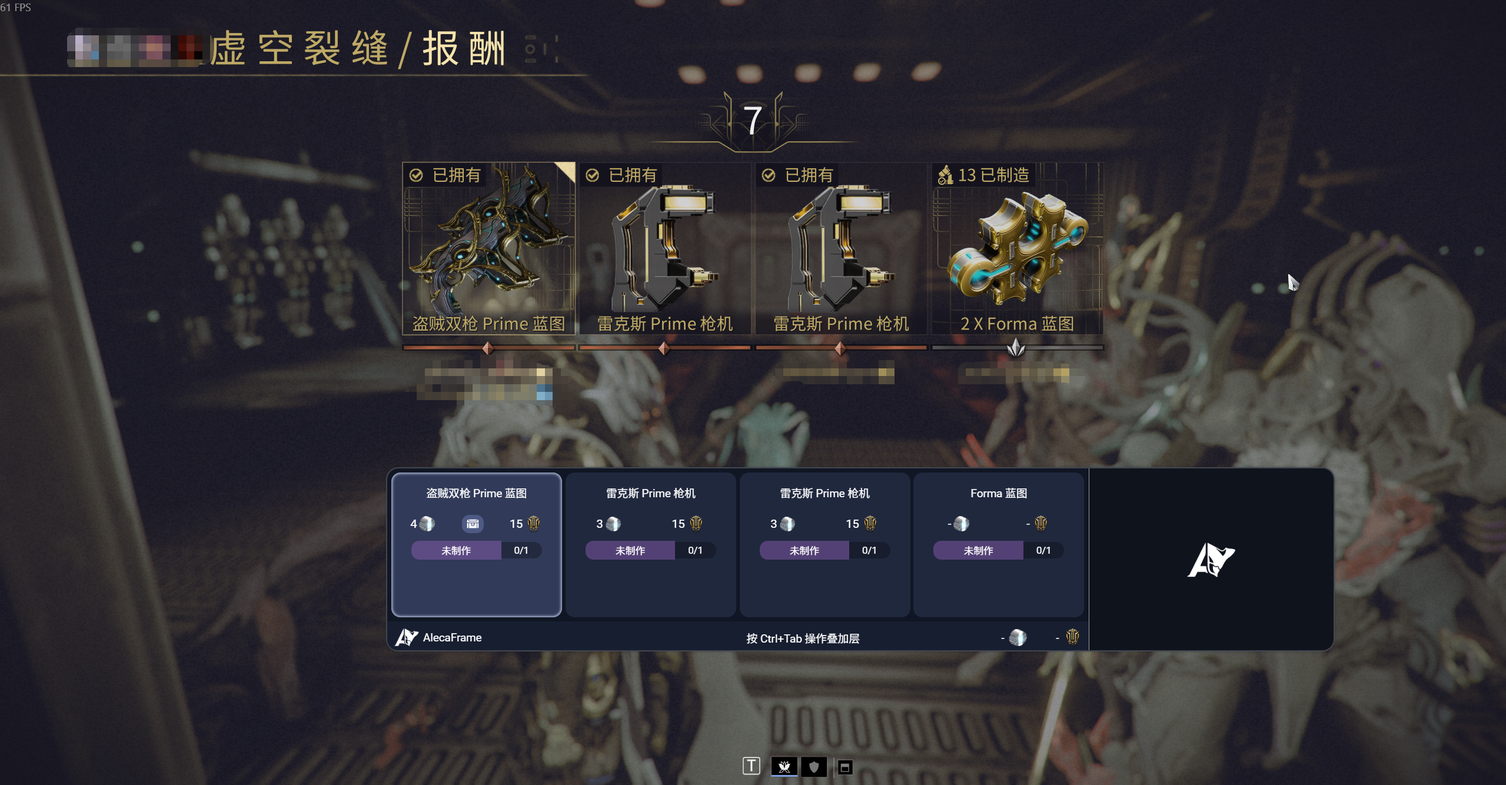
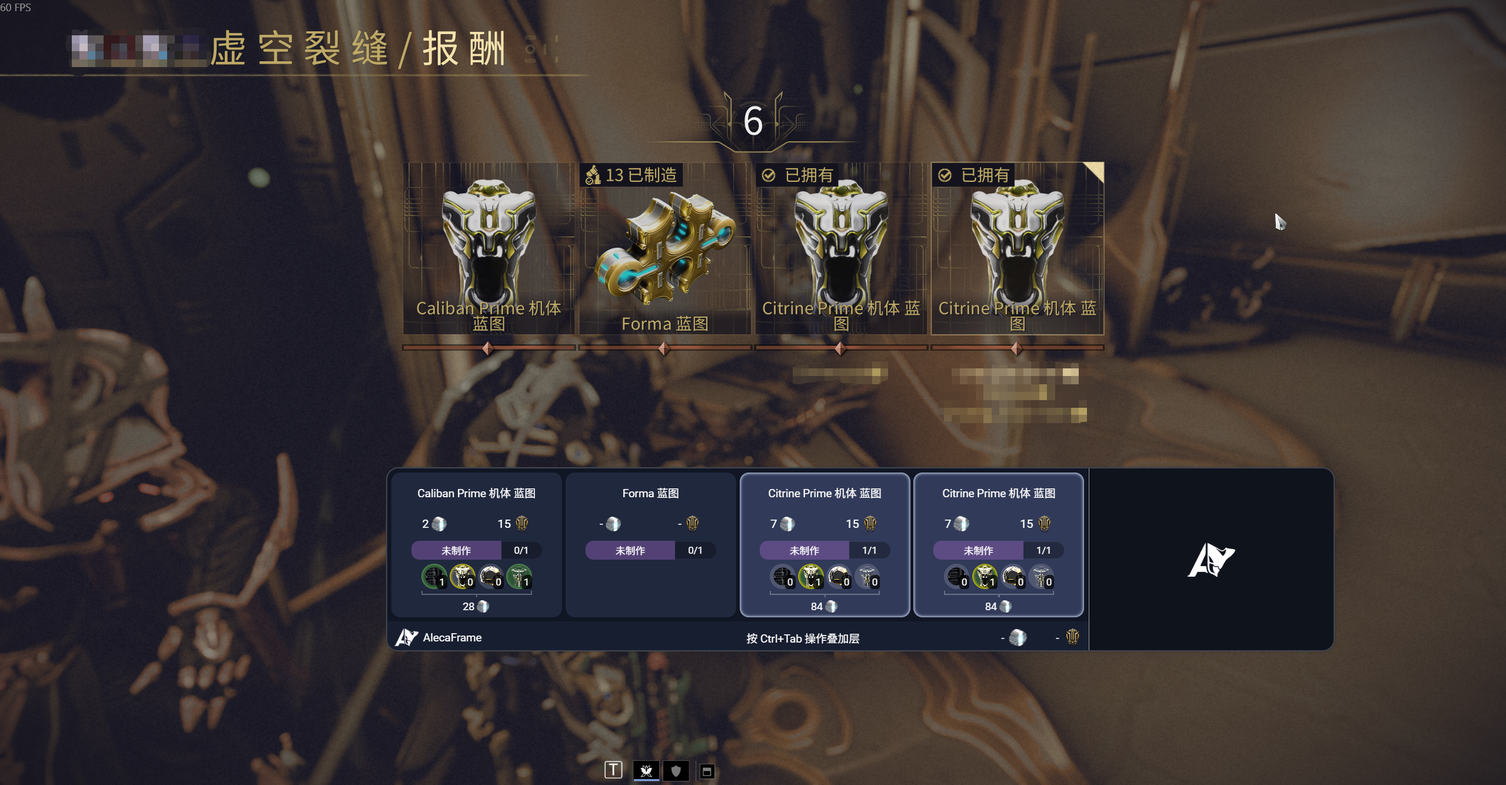
fix:修复在中文游戏下底部部件列表不展示

diff --git a/relic-helper/alecaframe-zh-relic.js b/relic-helper/alecaframe-zh-relic.js
@@ -19,7 +19,7 @@ function GetRelicWindowDataZH(testMode, callback) {
         };
 
         readLocalResult(startTime - 5000)
-            .then(async response => {
+            .then(response => {
                 if (!response.ok || !Array.isArray(response.rewards) || !response.rewards.length) {
                     throw new Error(response.error || "中文遗物截图识别失败");
                 }
@@ -43,8 +43,8 @@ function GetRelicWindowDataZH(testMode, callback) {
                 const refresh = () => {
                     if (window.relicsApp) relicsApp.relics = rewards.slice();
                 };
-                fillPrices(native, response.rewards, rewards).then(refresh);
-                fillInventory(native, rewards).then(refresh);
+                fillPrices(native, response.rewards, rewards, refresh);
+                fillFoundry(native, response.rewards, rewards, refresh);
             })
             .catch(error => {
                 console.error("[AlecaFrame 中文遗物] " + error);
@@ -86,60 +86,88 @@ function readLocalResult(minimumSourceTime) {
     });
 }
 
-function fillPrices(native, source, rewards) {
-    return new Promise(resolve => {
-        const timer = setTimeout(resolve, 3000);
-        try {
-            const names = source.map(item => item.englishName);
-            native.getHugePriceList(JSON.stringify(names), (success, data) => {
-                clearTimeout(timer);
-                try {
-                    if (success) {
-                        const prices = JSON.parse(data);
-                        rewards.forEach((reward, i) => {
-                            const part = prices[i];
-                            if (part && Number(part.post) > 0) reward.platinum = Number(part.post);
-                        });
+function fillPrices(native, source, rewards, refresh) {
+    try {
+        // Older market entries use " Set"; some newer entries use the parent
+        // name directly. Keep both queries in English, independent of display names.
+        const parents = source.map(item =>
+            /\bPrime\b/.test(item.parentName || "") ? item.parentName : "");
+        const names = Array.from(new Set(source.map(item => item.englishName)
+            .concat(parents.filter(Boolean).flatMap(name => [name + " Set", name]))));
+        native.getHugePriceList(JSON.stringify(names), (success, data) => {
+            try {
+                if (!success) return;
+                const prices = JSON.parse(data);
+                const byName = new Map(names.map((name, i) => [name, prices[i]]));
+                const priceFor = name => {
+                    const item = byName.get(name);
+                    return item && Number(item.post) > 0 ? Number(item.post) : -1;
+                };
+                rewards.forEach((reward, i) => {
+                    reward.platinum = priceFor(source[i].englishName);
+                    if (parents[i]) {
+                        const setPrice = priceFor(parents[i] + " Set");
+                        reward.setPlat = setPrice > 0 ? setPrice : priceFor(parents[i]);
                     }
-                } catch (error) { console.warn("[AlecaFrame 中文遗物] 价格读取失败", error); }
-                resolve();
-            });
-        } catch (error) { clearTimeout(timer); resolve(); }
-    });
+                });
+                // A native price request can finish after the old three-second
+                // timeout. Refresh on the actual callback so Vue sees late data.
+                refresh();
+            } catch (error) { console.warn("[AlecaFrame 中文遗物] 价格读取失败", error); }
+        });
+    } catch (error) { console.warn("[AlecaFrame 中文遗物] 价格读取失败", error); }
 }
 
-function fillInventory(native, rewards) {
-    return new Promise(resolve => {
-        const timer = setTimeout(resolve, 3000);
-        const filter = {
-            type: "allParts", search: "", order: "name",
-            orderLargerToSmaller: false, yesnoFilters: "{}", onlyOwned: false
-        };
-        try {
-            native.getFilteredInventory(JSON.stringify(filter), true, (success, data) => {
-                clearTimeout(timer);
-                try {
-                    if (success) {
-                        const items = JSON.parse(data);
-                        const byPart = new Map();
-                        items.forEach(item => {
-                            (item.components || []).forEach(component => {
-                                const key = component.baseData && component.baseData.uniqueName;
-                                if (key) byPart.set(key, { item, component });
-                            });
-                        });
-                        rewards.forEach(reward => {
-                            const match = byPart.get(reward.internalName);
-                            if (!match) return;
-                            reward.countOwned = Number(match.component.baseData.quantityOwned) || 0;
-                            reward.isFav = !!(match.component.baseData.isFav ||
-                                match.component.isFav || match.item.isFav);
-                            reward.isPartOfOwned = !!match.item.owned;
-                        });
+function fillFoundry(native, source, rewards, refresh) {
+    const filter = {
+        type: "all", search: "", order: "name",
+        orderLargerToSmaller: false, yesnoFilters: "{}"
+    };
+    try {
+        // Inventory entries are flat. Foundry entries contain the native recipe,
+        // component pictures, quantities, favourites and ownership/mastery flags.
+        native.getFilteredFoundry(JSON.stringify(filter), true, (success, data) => {
+            try {
+                if (!success) return;
+                const items = JSON.parse(data);
+                const byPart = new Map();
+                items.forEach(item => {
+                    (item.components || []).forEach(component => {
+                        const key = component.uniqueName;
+                        if (!key) return;
+                        if (!byPart.has(key)) byPart.set(key, []);
+                        byPart.get(key).push({ item, component });
+                    });
+                });
+                rewards.forEach((reward, i) => {
+                    const matches = byPart.get(reward.internalName);
+                    if (!matches) return;
+                    // A component can be used by several recipes. Use the parent
+                    // selected by recognition instead of the last indexed recipe.
+                    const parent = source[i];
+                    const match = matches.find(entry => entry.item.internalName === parent.parentInternalName) ||
+                        matches.find(entry => entry.item.name === parent.parentName) || matches[0];
+                    const item = match.item;
+                    const component = match.component;
+                    reward.countOwned = Number(component.quantityOwned) || 0;
+                    reward.totalToOwn = Number(component.neccessaryAmount) || reward.totalToOwn;
+                    reward.isFav = !!(component.isFav || component.isFavOnlyPart || item.isFav);
+                    reward.isPartOfOwned = !!(item.owned || item.mastered || item.pendingInFoundry || component.parentOwned);
+                    // Match the official overlay: only Prime recipes, without
+                    // resource/research ingredients, and highlight this reward.
+                    if (/\bPrime\b/.test(reward.englishName + " " + (parent.parentName || item.name))) {
+                        reward.componentData = item.components
+                            .filter(part => part.uniqueName &&
+                                !part.uniqueName.includes("/MiscItems/") &&
+                                !part.uniqueName.includes("/Research/"))
+                            .map(part => Object.assign({}, part, {
+                                recipeHighlightedComponent: part.uniqueName === reward.internalName
+                            }));
                     }
-                } catch (error) { console.warn("[AlecaFrame 中文遗物] 库存读取失败", error); }
-                resolve();
-            });
-        } catch (error) { clearTimeout(timer); resolve(); }
-    });
+                });
+                refresh();
+                console.log("[AlecaFrame 中文遗物] 已补全奖励的铸造部件及持有数量");
+            } catch (error) { console.warn("[AlecaFrame 中文遗物] 铸造数据读取失败", error); }
+        });
+    } catch (error) { console.warn("[AlecaFrame 中文遗物] 铸造数据读取失败", error); }
 }

diff --git a/relic-helper/RelicServer.cs b/relic-helper/RelicServer.cs
@@ -32,6 +32,7 @@ internal static class RelicServer
         public string name;
         public string internalName;
         public string parentName;
+        public string parentInternalName;
         public int ducats;
         public int totalToOwn;
         public bool isItemVaulted;
@@ -477,6 +478,7 @@ internal static class RelicServer
                 String.IsNullOrEmpty(baseZh) ? english : baseZh + " " + suffix),
             internalName = partKey,
             parentName = parent == null ? null : (string)parent["name"],
+            parentInternalName = parentKey,
             ducats = part["ducats"] == null ? -1 : (int)part["ducats"],
             totalToOwn = count,
             isItemVaulted = parent != null && parent["vaulted"] != null && (bool)parent["vaulted"]
